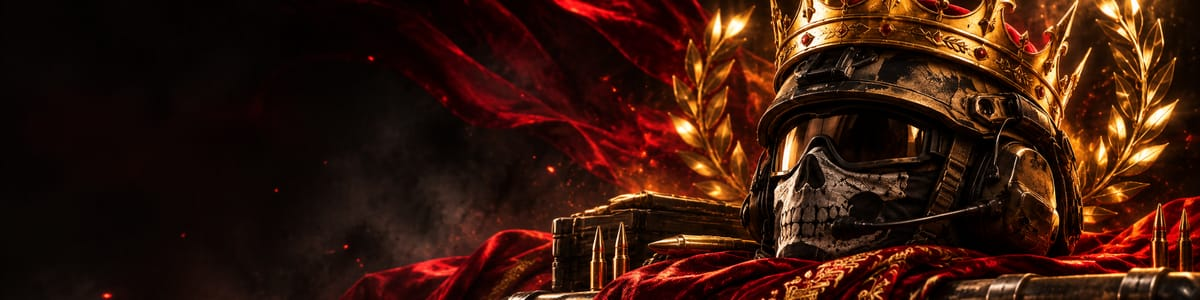
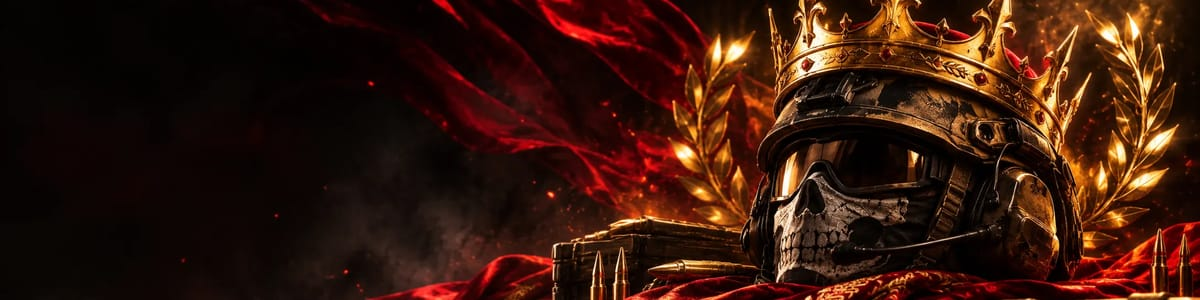
Cartes de visite : cadrage plus haut (têtes et sujets visibles dans le bandeau)

diff --git a/src/lib/cards.js b/src/lib/cards.js
@@ -47,17 +47,17 @@ const CARDS = {
   "pass-s1-sentinelle": { rarity: "rare", art: { type: "glyph", glyph: "15", color: "#5cc8ff" } },
   "pass-s1-gardien": { rarity: "epique", art: { type: "illustration", glyph: "25", hue: "#8b5cf6" } },
   "pass-s1-pharaon": { rarity: "legendaire", art: { type: "illustration", glyph: "30", hue: "#f5b83d" } },
-  "premier-sang": { rarity: "commune", art: { type: "illustration", glyph: "1", hue: "#f87171", image: "/images/cartes/premier-sang.webp", og: "/images/cartes/og/premier-sang.jpg", position: "center", mobilePosition: "62% center" } },
-  domination: { rarity: "commune", art: { type: "illustration", glyph: "10", hue: "#d4af37", image: "/images/cartes/domination.webp", og: "/images/cartes/og/domination.jpg", position: "center", mobilePosition: "62% center" } },
-  veteran: { rarity: "commune", art: { type: "illustration", glyph: "50", hue: "#b8c2cf", image: "/images/cartes/veteran.webp", og: "/images/cartes/og/veteran.jpg", position: "center", mobilePosition: "62% center" } },
-  indestructible: { rarity: "rare", art: { type: "illustration", glyph: "×5", hue: "#5cc8ff", image: "/images/cartes/indestructible.webp", og: "/images/cartes/og/indestructible.jpg", position: "center", mobilePosition: "62% center" } },
-  "esprit-equipe": { rarity: "rare", art: { type: "illustration", glyph: "25", hue: "#4fd1b0", image: "/images/cartes/esprit-equipe.webp", og: "/images/cartes/og/esprit-equipe.jpg", position: "center", mobilePosition: "62% center" } },
-  "loup-solitaire": { rarity: "rare", art: { type: "illustration", glyph: "25", hue: "#cbd5e1", image: "/images/cartes/loup-solitaire.webp", og: "/images/cartes/og/loup-solitaire.jpg", position: "center", mobilePosition: "62% center" } },
-  polyvalent: { rarity: "rare", art: { type: "illustration", glyph: "4F", hue: "#93c5fd", image: "/images/cartes/polyvalent.webp", og: "/images/cartes/og/polyvalent.jpg", position: "center", mobilePosition: "62% center" } },
+  "premier-sang": { rarity: "commune", art: { type: "illustration", glyph: "1", hue: "#f87171", image: "/images/cartes/premier-sang.webp", og: "/images/cartes/og/premier-sang.jpg", position: "center 35%", mobilePosition: "62% center" } },
+  domination: { rarity: "commune", art: { type: "illustration", glyph: "10", hue: "#d4af37", image: "/images/cartes/domination.webp", og: "/images/cartes/og/domination.jpg", position: "center 25%", mobilePosition: "62% center" } },
+  veteran: { rarity: "commune", art: { type: "illustration", glyph: "50", hue: "#b8c2cf", image: "/images/cartes/veteran.webp", og: "/images/cartes/og/veteran.jpg", position: "center 45%", mobilePosition: "62% center" } },
+  indestructible: { rarity: "rare", art: { type: "illustration", glyph: "×5", hue: "#5cc8ff", image: "/images/cartes/indestructible.webp", og: "/images/cartes/og/indestructible.jpg", position: "center 25%", mobilePosition: "62% center" } },
+  "esprit-equipe": { rarity: "rare", art: { type: "illustration", glyph: "25", hue: "#4fd1b0", image: "/images/cartes/esprit-equipe.webp", og: "/images/cartes/og/esprit-equipe.jpg", position: "center 25%", mobilePosition: "62% center" } },
+  "loup-solitaire": { rarity: "rare", art: { type: "illustration", glyph: "25", hue: "#cbd5e1", image: "/images/cartes/loup-solitaire.webp", og: "/images/cartes/og/loup-solitaire.jpg", position: "center 25%", mobilePosition: "62% center" } },
+  polyvalent: { rarity: "rare", art: { type: "illustration", glyph: "4F", hue: "#93c5fd", image: "/images/cartes/polyvalent.webp", og: "/images/cartes/og/polyvalent.jpg", position: "center 25%", mobilePosition: "62% center" } },
   centurion: { rarity: "epique", art: { type: "illustration", glyph: "100", hue: "#a855f7", video: "/images/cartes/centurion.mp4", poster: "/images/cartes/centurion-poster.webp", cover: true, position: "center", mobilePosition: "41% center", og: "/images/cartes/og/centurion.jpg" } },
   invaincu: { rarity: "epique", art: { type: "illustration", glyph: "×10", hue: "#c084fc", image: "/images/cartes/invaincu.webp", og: "/images/cartes/og/invaincu.jpg", position: "45% center", mobilePosition: "36% center" } },
-  "mvp-du-mois": { rarity: "legendaire", art: { type: "illustration", glyph: "MVP", hue: "#facc15", image: "/images/cartes/mvp-du-mois.webp", og: "/images/cartes/og/mvp-du-mois.jpg", position: "center", mobilePosition: "62% center" } },
-  "mvp-10": { rarity: "rare", art: { type: "illustration", glyph: "MVP", hue: "#facc15", image: "/images/cartes/mvp-10.webp", og: "/images/cartes/og/mvp-10.jpg", position: "center", mobilePosition: "62% center" } },
+  "mvp-du-mois": { rarity: "legendaire", art: { type: "illustration", glyph: "MVP", hue: "#facc15", image: "/images/cartes/mvp-du-mois.webp", og: "/images/cartes/og/mvp-du-mois.jpg", position: "center 25%", mobilePosition: "62% center" } },
+  "mvp-10": { rarity: "rare", art: { type: "illustration", glyph: "MVP", hue: "#facc15", image: "/images/cartes/mvp-10.webp", og: "/images/cartes/og/mvp-10.jpg", position: "center 25%", mobilePosition: "62% center" } },
   fondateur: { rarity: "legendaire", art: { type: "illustration", glyph: "F", hue: "#e8c26a", video: "/images/cartes/fondateur.mp4", og: "/images/cartes/og/fondateur.jpg", poster: "/images/cartes/fondateur-poster.webp", aspect: "480/546" } },
   beta: { rarity: "rare", art: { type: "glyph", glyph: "β", color: "#5cc8ff", video: "/images/cartes/beta.mp4", og: "/images/cartes/og/beta.jpg", poster: "/images/cartes/beta-poster.webp" } },
   partenaire: { rarity: "rare", art: { type: "glyph", glyph: "P", color: "#ff9a5c" } },
